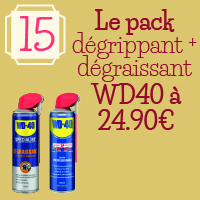
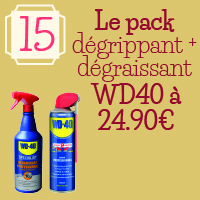
feat: mise a jour des visuels Lots (4, 7, 9, 11, 15, 23) et ajustement du texte d'introduction

Changed region(s): [[0.03, 0.45, 0.24, 0.99]]

diff --git a/index.html b/index.html
@@ -177,7 +177,7 @@
       
       <p class="advent-intro">
         Chaque jour de décembre, découvrez une surprise exclusive pour vos ateliers, vos véhicules et vos chantiers : 
-        <strong>petit outillage professionnel</strong>, <strong>codes promotionnels</strong>, équipements et cadeaux d'exception !
+        <strong>petit outillage professionnel</strong>, équipements et <strong>cadeaux d'exception !</strong>
       </p>
 
       <!-- Indicateur de statut du jour -->
